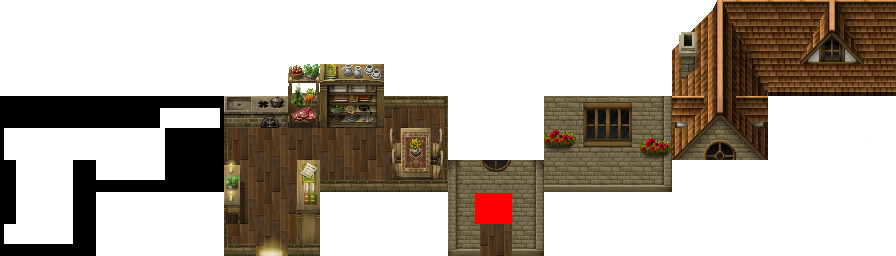
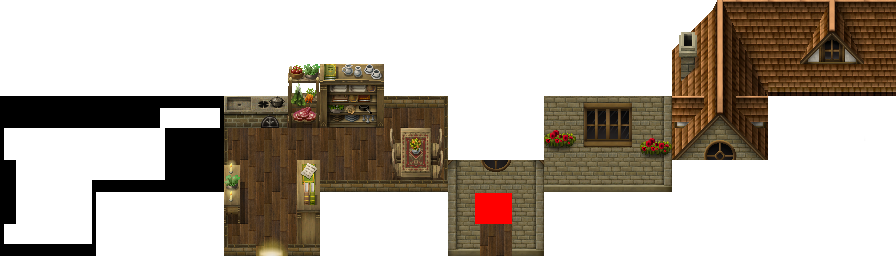
Door fixed

Changed region(s): [[0.0625, 0.625, 0.125, 0.9688]]

diff --git a/src/house_display.c b/src/house_display.c
@@ -10,10 +10,12 @@
 void exit_house(obj_t *obj, house_t *house, rpg_t *rpg)
 {
     sfSprite_move(obj->sprite, (sfVector2f){0, 1});
+    sfRectangleShape_move(obj->rectangle, (sfVector2f){0, 1});
     obj->rectangle_bound = sfRectangleShape_getGlobalBounds(obj->rectangle);
     if (sfFloatRect_intersects(&obj->rectangle_bound, &house->door_use_rect_bound, NULL) == 0) {
         house->display_house = 1;
         CONTROLS.bools[KEYINTER] = 0;
+        rpg->controls.bools[EVENTLOCK] = 0;
     }
 }
 
@@ -26,29 +28,38 @@ void enter_house(obj_t *obj, house_t *house, rpg_t *rpg)
     house->frame_animation++;
     if (house->door_rect.left >= 288) {
         sfSprite_move(obj->sprite, (sfVector2f){0, -1});
+        sfRectangleShape_move(obj->rectangle, (sfVector2f){0, -1});
         obj->rectangle_bound = sfRectangleShape_getGlobalBounds(obj->rectangle);
         if (sfFloatRect_intersects(&obj->rectangle_bound, &house->door_use_rect_bound, NULL) == 0) {
-            printf("ouvert\n");
             house->door_rect.left = 0;
             house->display_house = 0;
             CONTROLS.bools[KEYINTER] = 0;
+            rpg->controls.bools[EVENTLOCK] = 0;
         }
     }
 }
 
 void check_house_display(obj_t *obj, house_t *house, rpg_t *rpg)
 {
-    if (house->display_house == 1)
+    if (house->display_house == 1) {
         enter_house(obj, house, rpg);
+    }
     else
         exit_house(obj, house, rpg);
 }
 
 void house_interaction(obj_t *obj, house_t **house, rpg_t *rpg)
 {
-    for (int i = 0; house[i] != NULL; i++)
-        if (sfFloatRect_intersects(&obj->rectangle_bound, &house[i]->door_use_rect_bound, NULL) == 1 && CONTROLS.bools[KEYINTER] == 1)
+    for (int i = 0; house[i] != NULL; i++) {
+        if (sfFloatRect_intersects(&obj->rectangle_bound, &house[i]->door_use_rect_bound, NULL) == 1 && CONTROLS.bools[KEYINTER] == 1) {
+            rpg->controls.bools[EVENTLOCK] = 1;
+            rpg->controls.bools[KEYDOWN] = 0;
+            rpg->controls.bools[KEYLEFT] = 0;
+            rpg->controls.bools[KEYRIGHT] = 0;
+            rpg->controls.bools[KEYUP] = 0;
             check_house_display(obj, house[i], rpg);
+        }
+    }
 }
 
 void house_display(rpg_t *rpg, house_t **house)

diff --git a/src/game_display.c b/src/game_display.c
@@ -46,11 +46,9 @@ static void display(rpg_t *rpg, obj_t **obj, house_t **house)
             obj[9] = create_object("assets/perso_blanc.png", (sfVector2f){9246, 1120}, (sfIntRect){0, 0, 32, 64}, sfTrue);
         if (house[i]->display_house == 1)
             sfRenderWindow_drawSprite(WIND.wind, house[i]->tab[ROOF], NULL);
-        sfRenderWindow_drawRectangleShape(WIND.wind, house[i]->door_use_rectangle, NULL);
     }
     if (rpg->debug == 1)
         debug_txt(rpg, obj[1]);
-    sfRenderWindow_drawRectangleShape(WIND.wind, obj[0]->rectangle, NULL);
     sfRenderWindow_display(WIND.wind);
     sfRenderWindow_clear(WIND.wind, sfBlack);
 }
@@ -75,7 +73,7 @@ void game_loop(rpg_t *rpg, obj_t **obj, house_t **house)
 
     sfClock_restart(obj[1]->clock);
     while (sfRenderWindow_isOpen(WIND.wind)) {
-        while (sfRenderWindow_pollEvent(WIND.wind, &WIND.event))
+        while (sfRenderWindow_pollEvent(WIND.wind, &WIND.event) && rpg->controls.bools[EVENTLOCK] == 0)
             event_management(rpg, obj);
         if (MENU.menu_on == 0) {
             MENU.menu_on = 1;

diff --git a/src/create_house.c b/src/create_house.c
@@ -37,8 +37,8 @@ void door_creation(house_t *house, char *path, sfVector2f pos, sfIntRect rect)
     house->door_use_rectangle = sfRectangleShape_create();
     house->door_rect = rect;
     house->frame_animation = 0;
-    sfRectangleShape_setSize(house->door_use_rectangle, V2F(2, 14));
-    sfRectangleShape_setOrigin(house->door_use_rectangle, V2F(1, 13));
+    sfRectangleShape_setSize(house->door_use_rectangle, V2F(1, 16));
+    sfRectangleShape_setOrigin(house->door_use_rectangle, V2F(0.5, 14));
     sfRectangleShape_setPosition(house->door_use_rectangle,
     V2F(pos.x + rect.width / 2, pos.y + rect.height));
     house->door_use_rect_bound = sfRectangleShape_getGlobalBounds(house->door_use_rectangle);

diff --git a/src/character_gestion.c b/src/character_gestion.c
@@ -50,7 +50,7 @@ void apply_controls_character(rpg_t *rpg, obj_t **obj, house_t **house)
         sfSprite_move(obj[0]->sprite, newPos);
     }
     obj[0]->pos = sfSprite_getPosition(obj[0]->sprite);
-    sfRectangleShape_setPosition(obj[0]->rectangle, obj[0]->pos);
+    sfRectangleShape_setPosition(obj[0]->rectangle, sfSprite_getPosition(obj[0]->sprite));
     obj[0]->rectangle_bound = sfRectangleShape_getGlobalBounds(obj[0]->rectangle);
 }
 

diff --git a/src/main.c b/src/main.c
@@ -69,10 +69,10 @@ int main(int ac, char **av)
 
     rpg.game.nb_save = 0;
     rpg.game.language = 0;
-    rpg.controls.bools = malloc(sizeof(sfBool) * 9);
+    rpg.controls.bools = malloc(sizeof(sfBool) * 10);
     if (rpg.controls.bools == NULL)
         return (84);
-    for (int i = 0; i < 9; i++)
+    for (int i = 0; i < 10; i++)
         rpg.controls.bools[i] = 0;
     create_music(&rpg);
     init_menu(&rpg, obj, house);

diff --git a/src/analyse_game_key.c b/src/analyse_game_key.c
@@ -50,6 +50,8 @@ void manage_key_released(rpg_t *rpg)
         CONTROLS.bools[KEYLEFT] = 0;
     if (WIND.event.key.code == CONTROLS.keys[RIGHT])
         CONTROLS.bools[KEYRIGHT] = 0;
+    if (WIND.event.key.code == sfKeyE)
+        CONTROLS.bools[KEYINTER] = 0;
     if (WIND.event.key.code == sfKeySpace)
         CONTROLS.bools[KEYSPACE] = 0;
 }

diff --git a/include/struct.h b/include/struct.h
@@ -49,7 +49,8 @@ enum bools {
     ZOOM,
     DEZOOM,
     KEYINTER,
-    KEYY
+    KEYY,
+    EVENTLOCK
 };
 
 enum stats {
